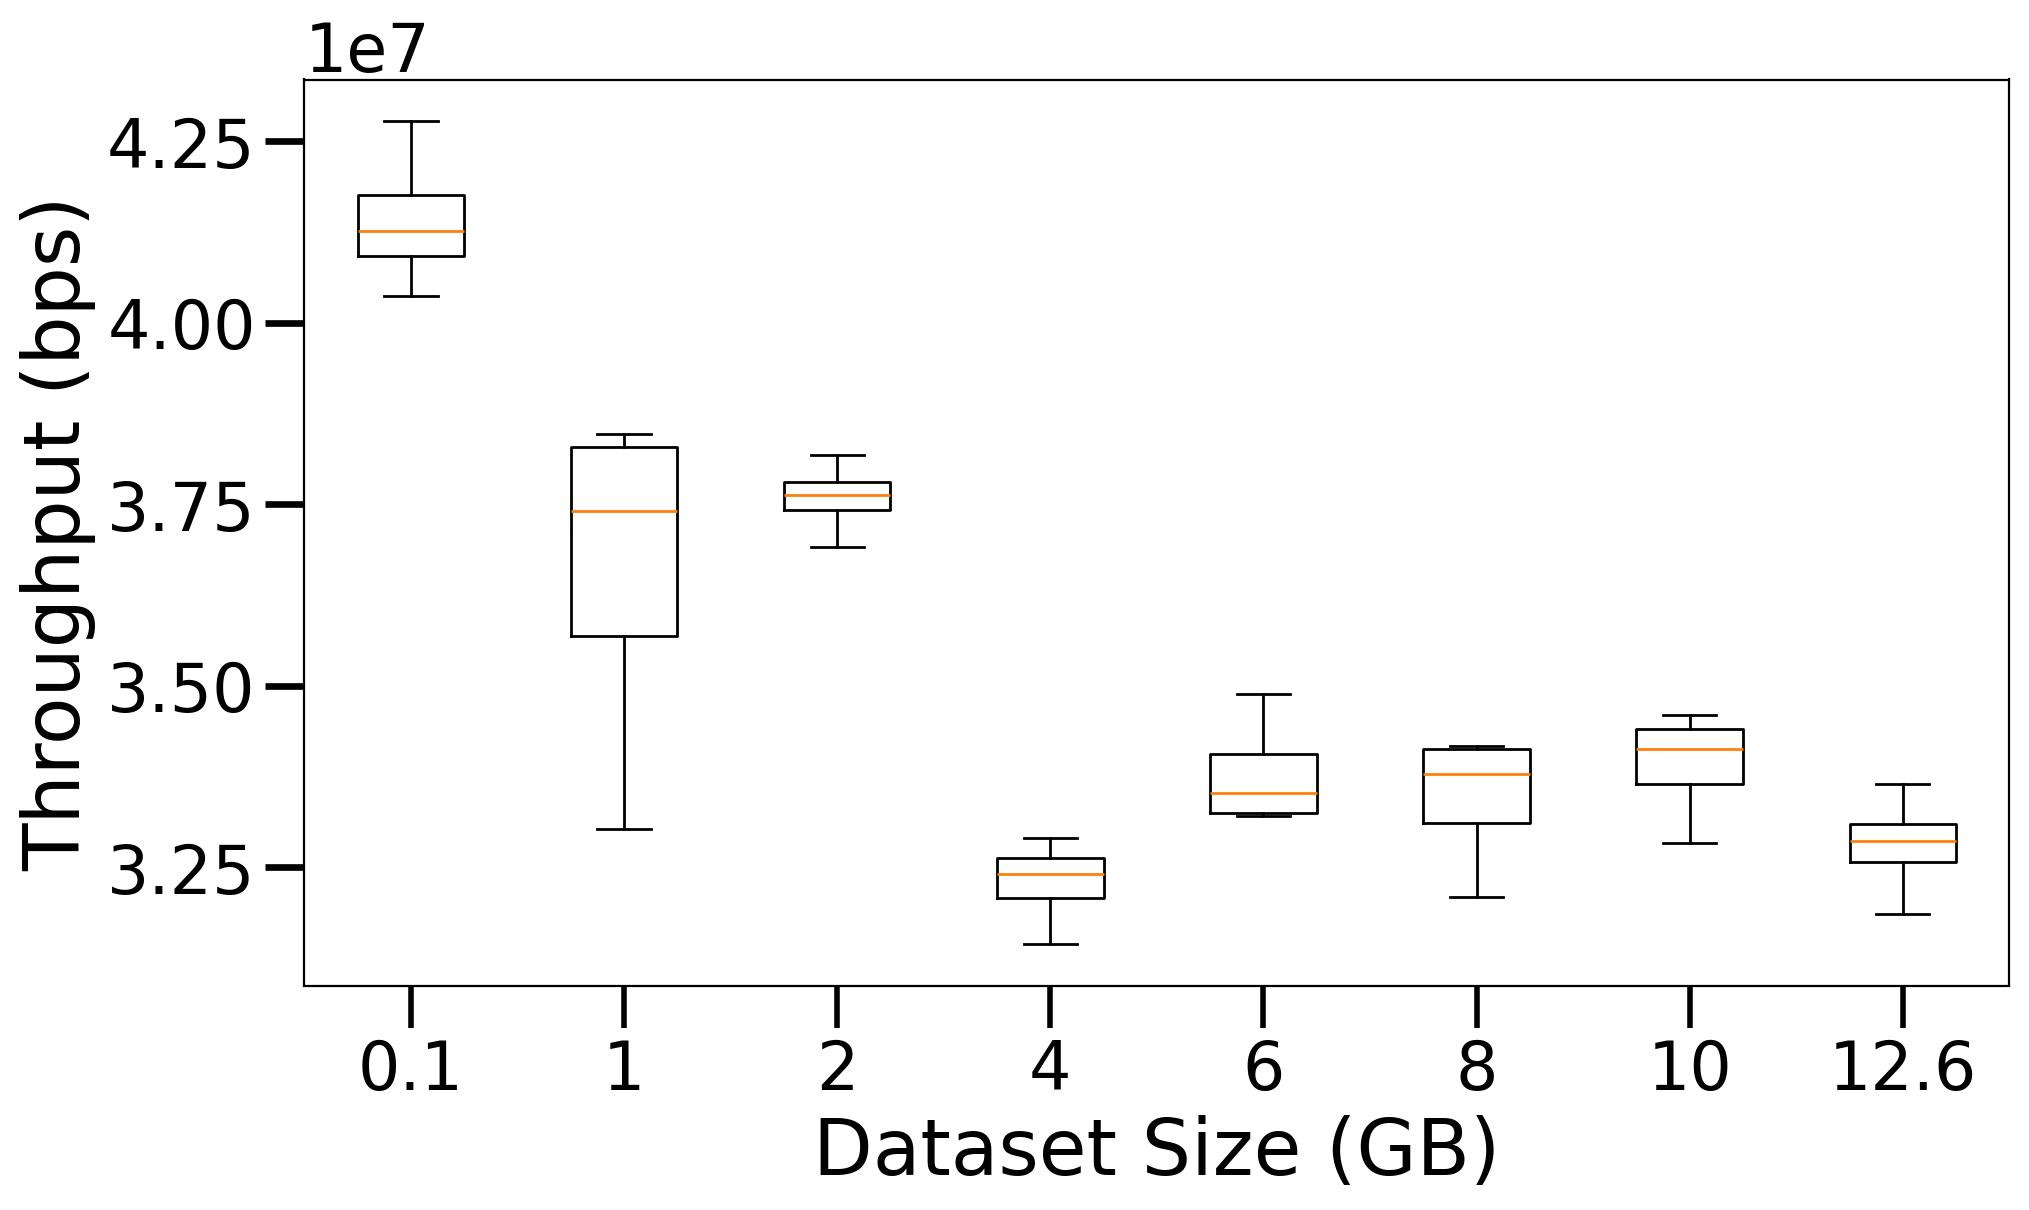
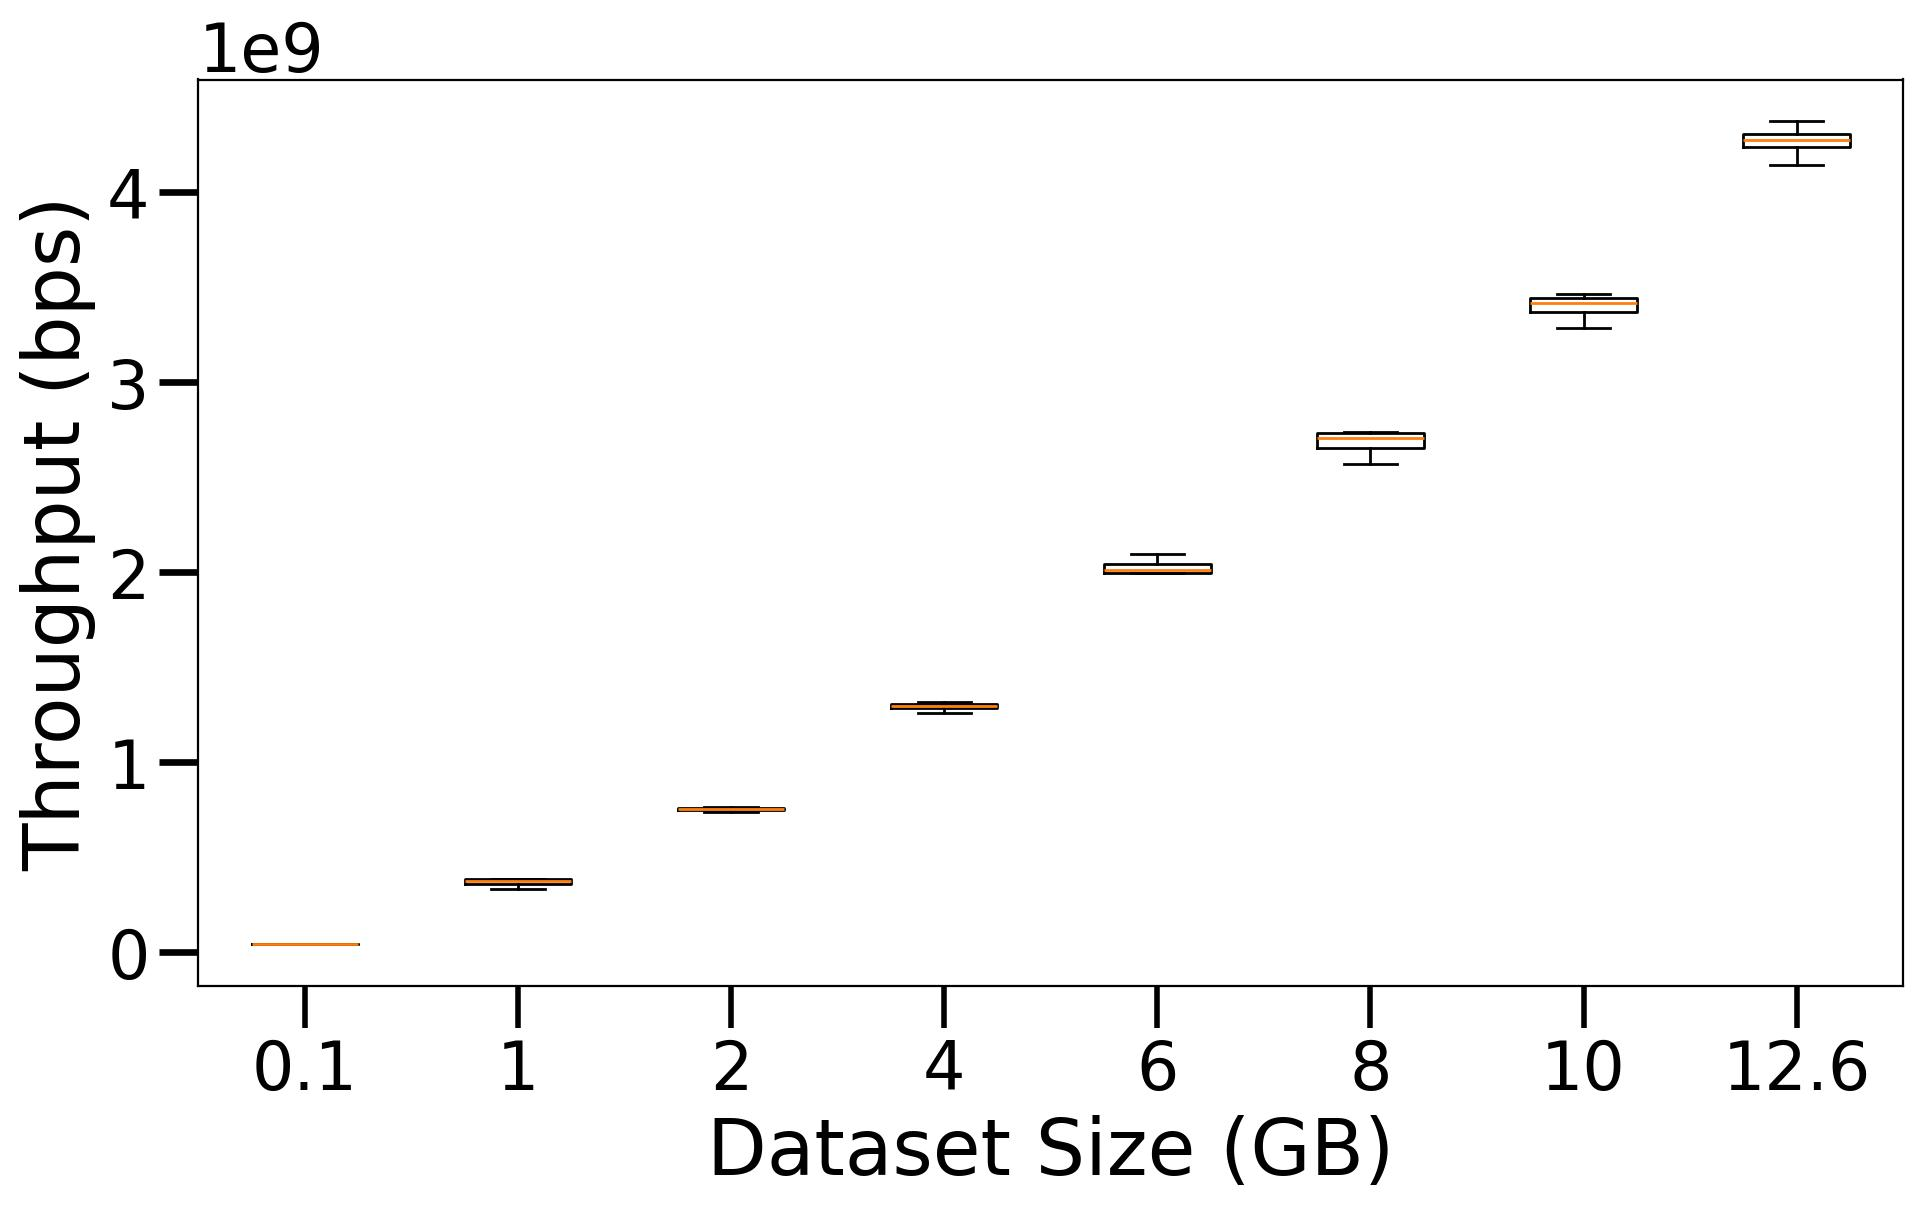
sum throughput, instead of avg

diff --git a/code/Anomaly Detection/Inference/inference.py b/code/Anomaly Detection/Inference/inference.py
@@ -1,6 +1,7 @@
 import sys, argparse, json
 from torch.profiler import profile, record_function, ProfilerActivity
-sys.path.append('/scratch/aww9gh/Cosmic_Cloud/AI-for-Astronomy/code/Anomaly Detection/') #adjust based on your system's directory
+# sys.path.append('/scratch/aww9gh/Cosmic_Cloud/AI-for-Astronomy/code/Anomaly Detection/') #adjust based on your system's directory
+sys.path.append('..') #adjust based on your system's directory
 import torch, time, os 
 import numpy as np
 import Plot_Redshift as plt_rdshft
@@ -60,8 +61,8 @@ def inference(model, dataloader, real_redshift, save_path, device, batch_size):
     total_gpu_memory = prof.key_averages().total_average().cuda_memory_usage / 1e6  # Convert bytes to MB
 
     # Extract total CPU and GPU time
-    total_cpu_time = prof.key_averages().total_average().cpu_time_total / 1e3  # Convert from microseconds to milliseconds
-    total_gpu_time = prof.key_averages().total_average().cuda_time_total / 1e3  # Convert from microseconds to milliseconds
+    total_cpu_time = prof.key_averages().total_average().cpu_time_total / 1e6  # Convert from microseconds to seconds
+    total_gpu_time = prof.key_averages().total_average().cuda_time_total / 1e6  # Convert from microseconds to seconds
 
     if device == 'cuda':
         total_time = total_gpu_time
@@ -71,17 +72,17 @@ def inference(model, dataloader, real_redshift, save_path, device, batch_size):
     avg_time_batch = total_time / num_batches
     
     execution_info = {
-            'total_cpu_time': total_cpu_time * 10 ** -3,
-            'total_gpu_time': total_gpu_time * 10 ** -3,
+            'total_cpu_time': total_cpu_time,
+            'total_gpu_time': total_gpu_time,
             'total_cpu_memory': total_cpu_memory, 
             'total_gpu_memory': total_gpu_memory,
-            'execution_time_per_batch': avg_time_batch * 10 ** -3,   # Average execution time per batch
+            'execution_time_per_batch': avg_time_batch,   # Average execution time per batch
             'num_batches': num_batches,   # Number of batches
             'batch_size': batch_size,   # Batch size
             'device': device,   # Selected device
-            'throughput_bps': 10 ** 3 * total_data_bits / total_time,   # Throughput in bits per second (using total_time for all batches)
+            'throughput_bps': total_data_bits / total_time,   # Throughput in bits per second (using total_time for all batches)
         }
-    
+    print(execution_info)
     # Invoke the evaluation metrics
     plt_rdshft.err_calculate(redshift_analysis, real_redshift, execution_info, save_path)  
     plt_rdshft.plot_density(redshift_analysis, real_redshift, save_path)
@@ -97,7 +98,7 @@ def engine(args):
     
 # Pathes and other inference hyperparameters can be adjusted below
 if __name__ == '__main__':
-    prj_dir = '/scratch/aww9gh/Cosmic_Cloud/AI-for-Astronomy/code/Anomaly Detection/' #adjust based on your system's directory
+    prj_dir = '../' #adjust based on your system's directory
     parser = argparse.ArgumentParser()
     parser.add_argument('--batch_size', type=int, default=512)
     parser.add_argument('--data_path', type = str, default = 'resized_inference.pt')

diff --git a/aws/stats.py b/aws/stats.py
@@ -35,7 +35,9 @@ def average_varying_batch_size():
     all_results = pd.concat(all_results)
     # all_results = all_results[['data_size', 'run'] + keys]
     all_results = all_results.groupby([column_name, 'run'])[keys].agg({
-        keys[0]: 'mean', keys[1]: 'sum', keys[2]: 'mean'
+        'total_cpu_time (seconds)': 'mean', 
+        "total_cpu_memory (MB)": 'sum', 
+        "throughput_bps": 'sum'
     }).reset_index()
     
     mean = all_results.groupby(column_name)[keys].mean().reset_index()
@@ -73,7 +75,9 @@ def average_varying_data_size():
     all_results = pd.concat(all_results)
     # all_results = all_results[['data_size', 'run'] + keys]
     all_results = all_results.groupby(['data_size', 'run'])[keys].agg({
-        keys[0]: 'mean', keys[1]: 'sum', keys[2]: 'mean'
+        'total_cpu_time (seconds)': 'mean', 
+        "total_cpu_memory (MB)": 'sum', 
+        "throughput_bps": 'sum'
     }).reset_index()
 
     mean = all_results.groupby(['data_size'])[keys].mean().reset_index()
